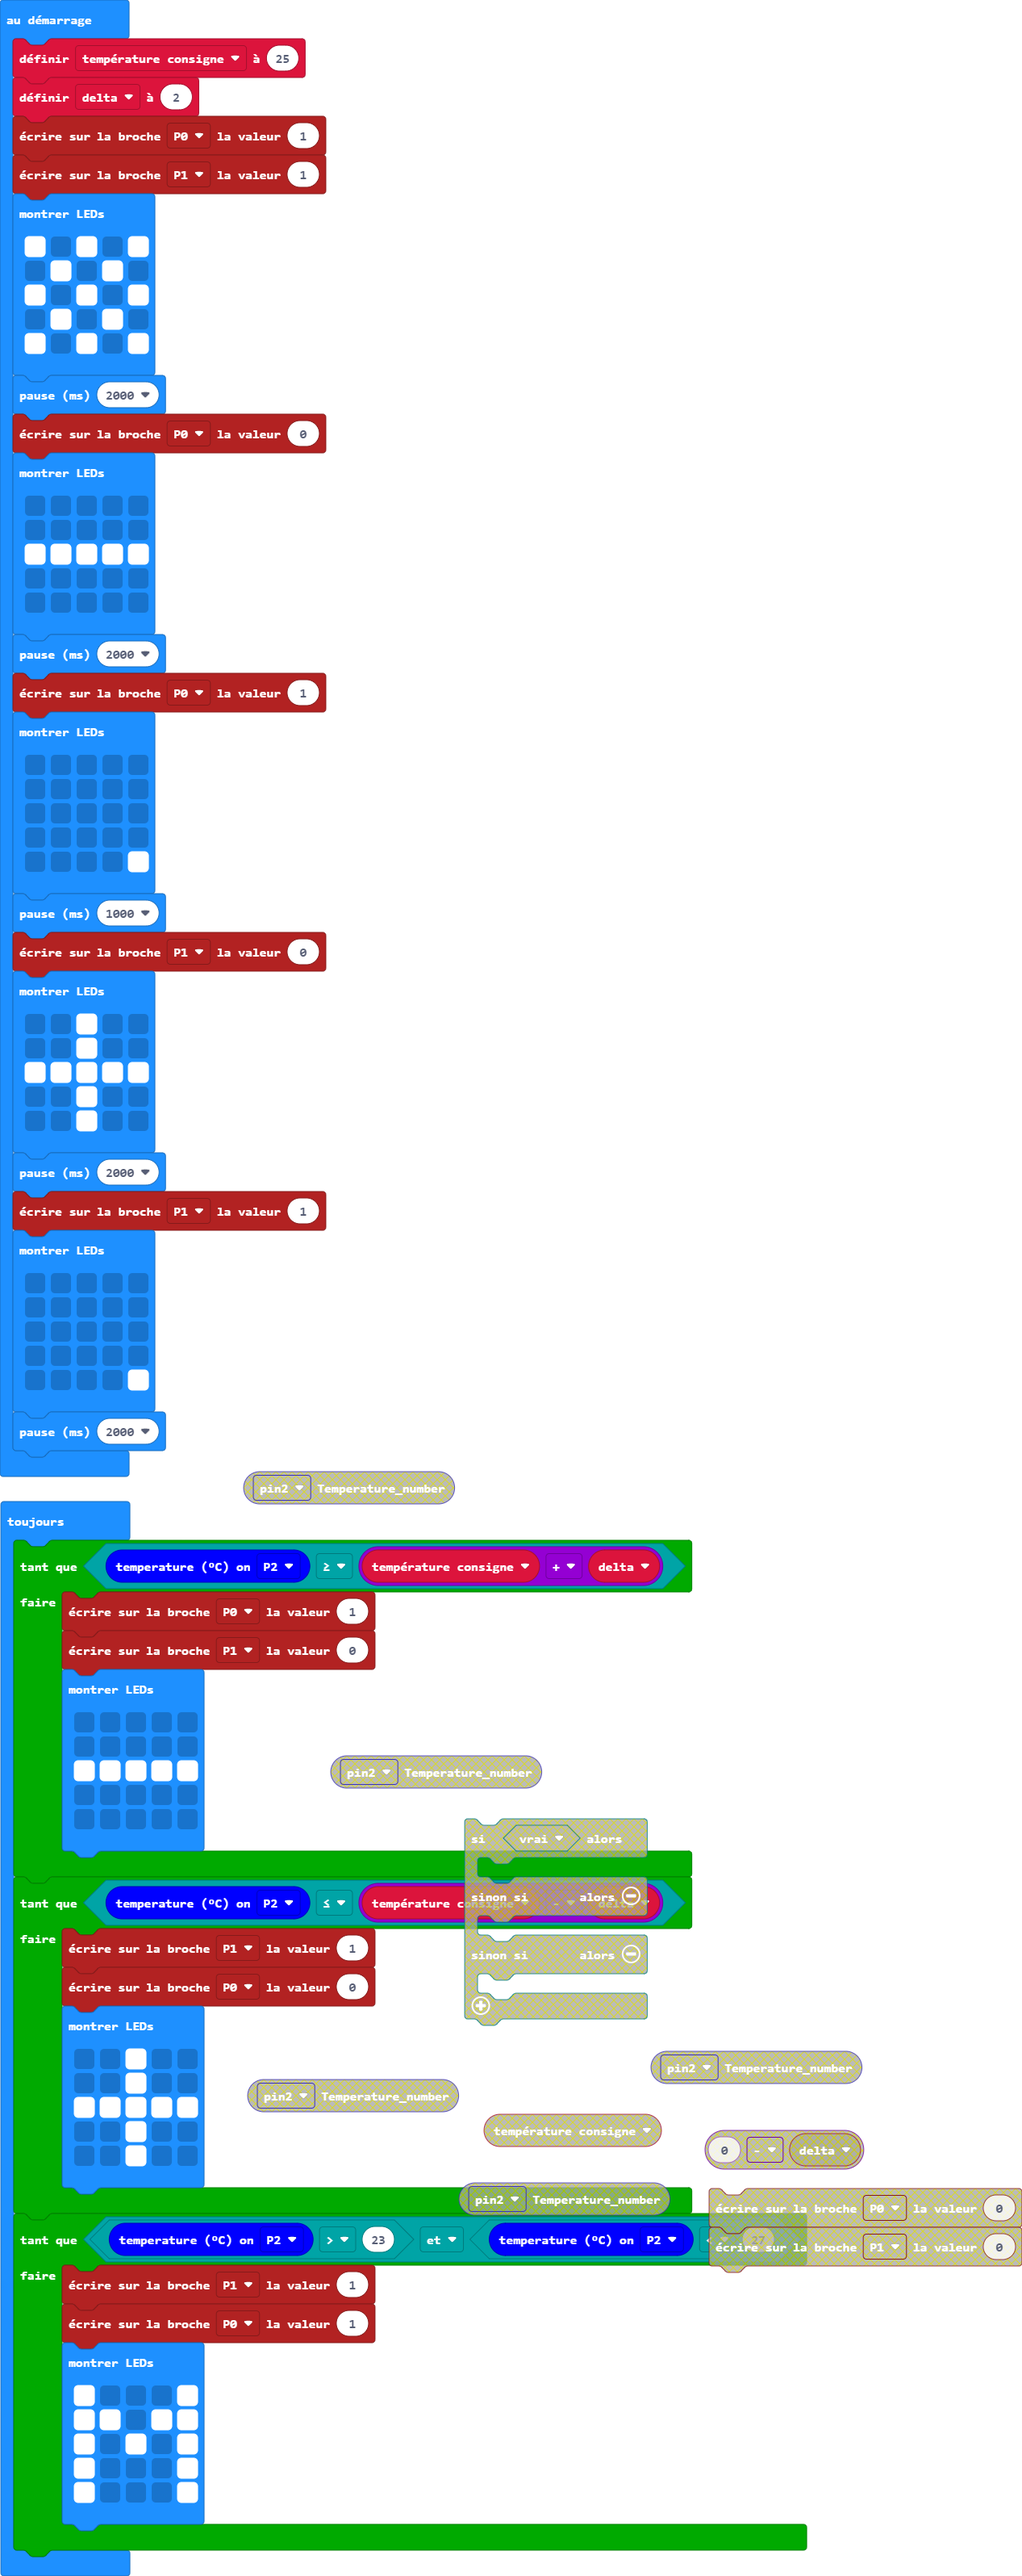
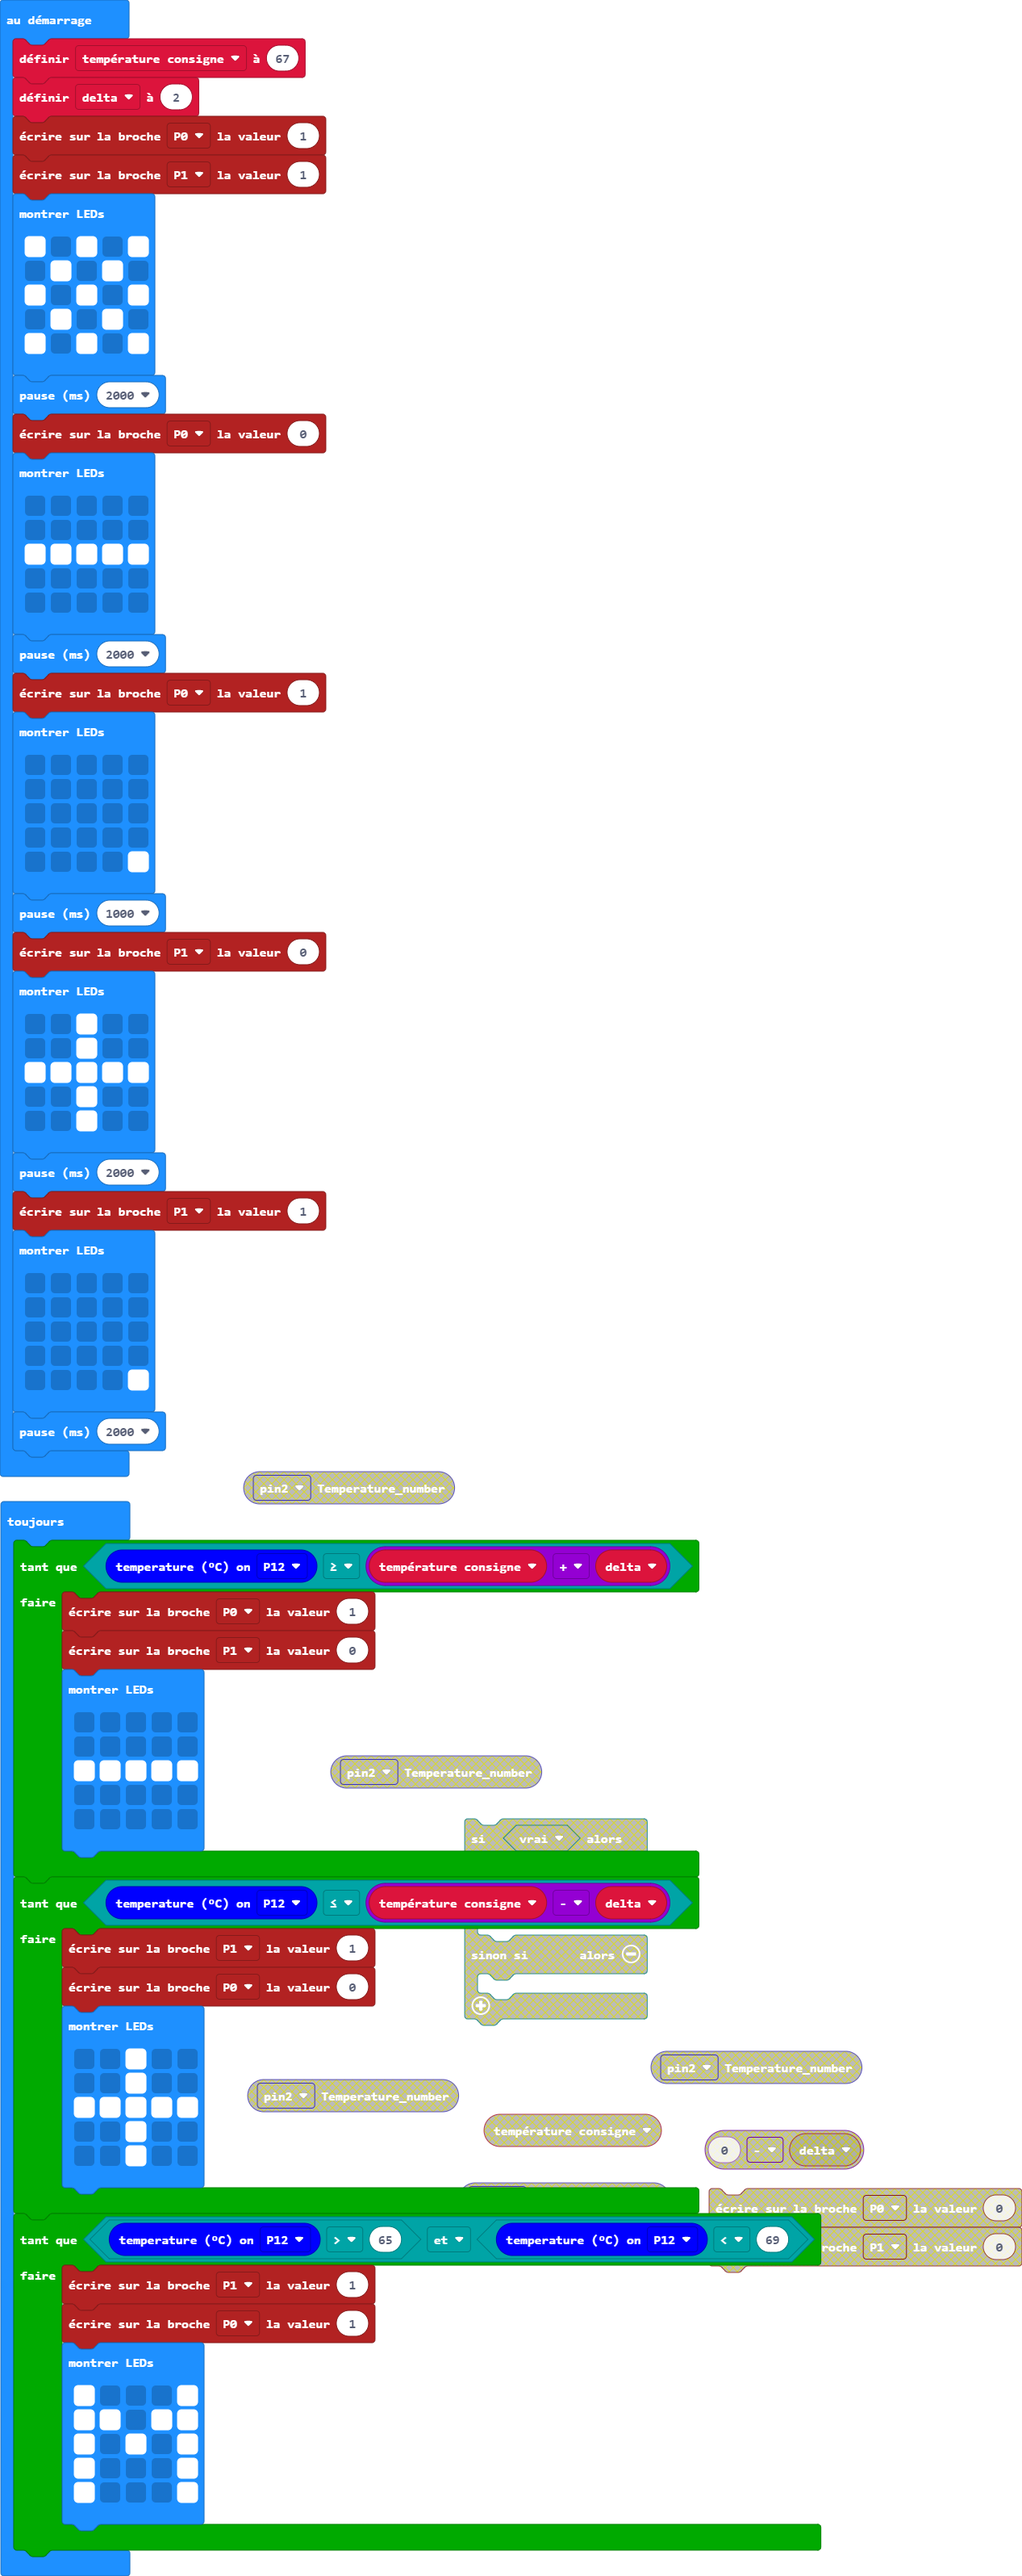
Mise à jour main.blocks, main.ts

diff --git a/main.ts b/main.ts
@@ -1,4 +1,4 @@
-let température_consigne = 25
+let température_consigne = 67
 let delta = 2
 pins.digitalWritePin(DigitalPin.P0, 1)
 pins.digitalWritePin(DigitalPin.P1, 1)
@@ -47,7 +47,7 @@ basic.showLeds(`
     `)
 basic.pause(2000)
 basic.forever(function () {
-    while (dstemp.celsius(DigitalPin.P2) >= température_consigne + delta) {
+    while (dstemp.celsius(DigitalPin.P12) >= température_consigne + delta) {
         pins.digitalWritePin(DigitalPin.P0, 1)
         pins.digitalWritePin(DigitalPin.P1, 0)
         basic.showLeds(`
@@ -58,7 +58,7 @@ basic.forever(function () {
             . . . . .
             `)
     }
-    while (dstemp.celsius(DigitalPin.P2) <= température_consigne - delta) {
+    while (dstemp.celsius(DigitalPin.P12) <= température_consigne - delta) {
         pins.digitalWritePin(DigitalPin.P1, 1)
         pins.digitalWritePin(DigitalPin.P0, 0)
         basic.showLeds(`
@@ -69,7 +69,7 @@ basic.forever(function () {
             . . # . .
             `)
     }
-    while (dstemp.celsius(DigitalPin.P2) > 23 && dstemp.celsius(DigitalPin.P2) < 27) {
+    while (dstemp.celsius(DigitalPin.P12) > 65 && dstemp.celsius(DigitalPin.P12) < 69) {
         pins.digitalWritePin(DigitalPin.P1, 1)
         pins.digitalWritePin(DigitalPin.P0, 1)
         basic.showLeds(`
